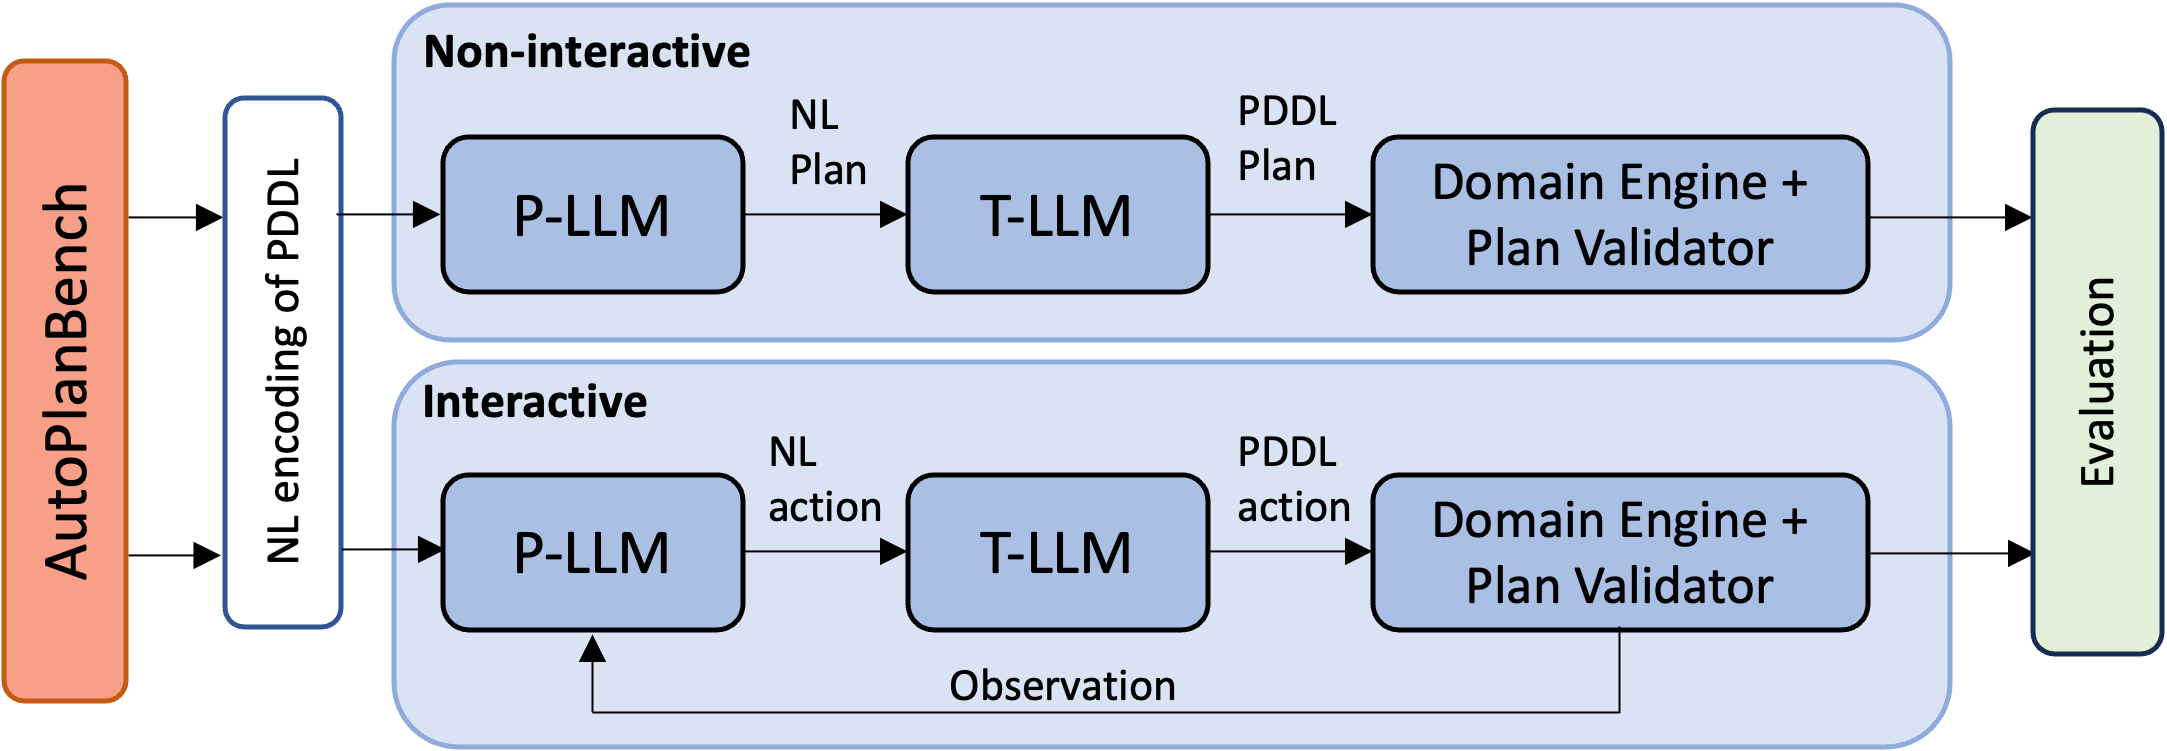
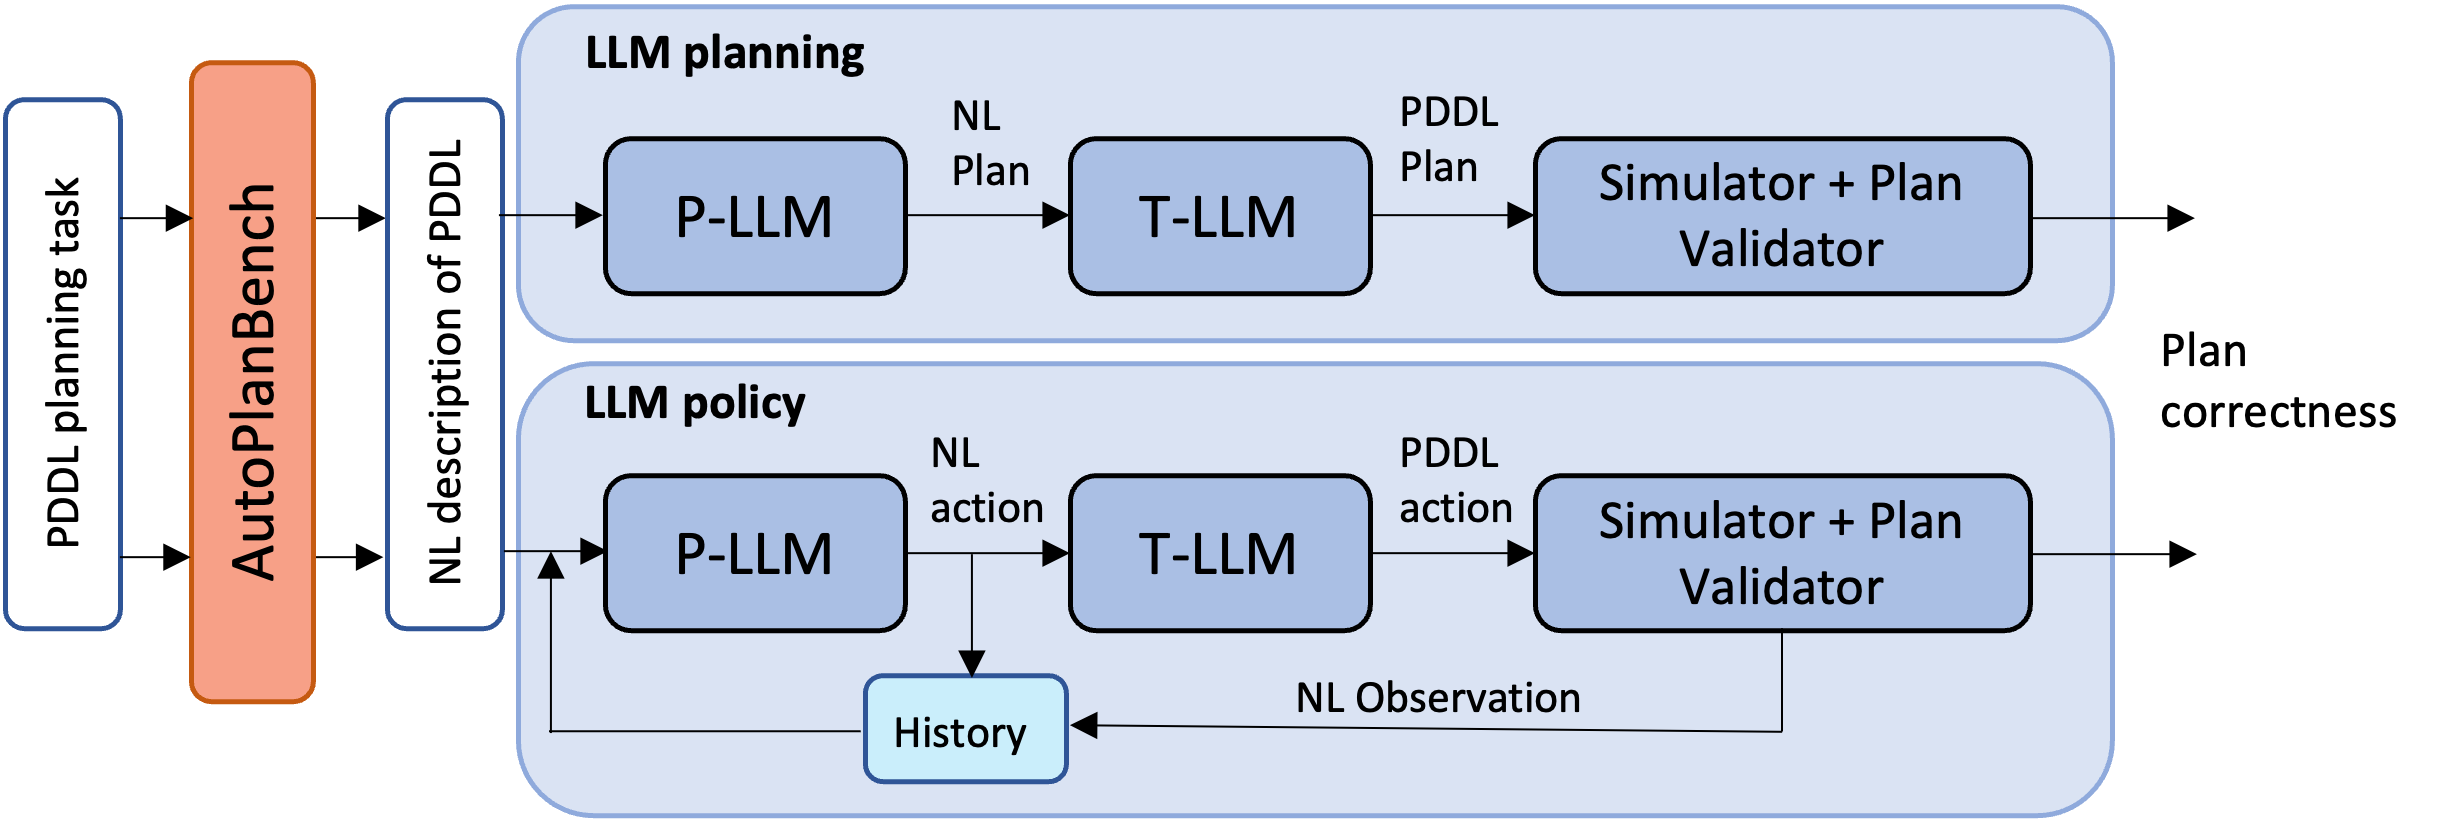
updates

diff --git a/autoplanbench.md b/autoplanbench.md
@@ -29,19 +29,16 @@ bibtex: |
           archivePrefix={arXiv},
           primaryClass={cs.AI}
     }
-    @misc{stein2024autoplanbench,
-          title={AutoPlanBench: Automatically generating benchmarks for LLM planners from PDDL}, 
-          author={Katharina Stein and Daniel Fi\v{s}er and J\"org Hoffmann and Alexander Koller},
-          year={2024},
-          eprint={2311.09830v2},
-          archivePrefix={arXiv},
-          primaryClass={cs.AI}
-    }
 ---
 
 <center>
     <img src="static/images/autoplanbench/autoplanbench2.png" width="50%" />
 </center>
+
+
+**Note on different versions**: <br>
+the previous version of this paper had been published on Arxiv under the title "AutoPlanBench: Automatically generating benchmarks for LLM planners from PDDL" which is currently linked above. This version of the paper will be soon replaced by the updated version "Automating the Generation of Prompts for LLM-based Action Choice in PDDL Planning" that will be published as part of the ICAPS Workshop on Bridging the Gap Between AI Planning and Reinforcement Learning (PRL). <br>
+The repository are already updated and the website is currently being updated. 
 
 
 
@@ -91,22 +88,22 @@ Blocksworld Example
 
 </details>
 
-## LLM Planning Approaches
+## LLM Action-Choice Mechanisms
 
 ### Overall Set-up
 
 <img src="static/images/autoplanbench/setup.png" width="50%" />
 
-* **P-LLM**: does the planning, i.e. predicts a complete plan / the next action given the domain and problem descriptions
+* **P-LLM**: does the action selection, i.e. predicts a complete plan / the next action given the domain and problem descriptions
 * **L-LLM**: translates natural language output of the P-LLM back to PDDL
-* **Domain Engine**: simulates the world state; outputs an observation for an input action; checks plan validity
+* **Simulator**: simulates the world state; outputs an observation for an input action; checks plan validity; determines whether the goal is satisfied
 
 ### Tested Approaches
 
-|                 | Non-interactive                                                                                   | Interactive                                                                                                                                  |
+|                 | Plan Generation (Non-interactive)                                                                                   | LLM as a policy (Interactive)                                                                                                                                  |
 |-----------------|---------------------------------------------------------------------------------------------------|----------------------------------------------------------------------------------------------------------------------------------------------|
-| **No Thoughts** | *Basic* <br> * one complete plan                                                                  | *Act* <br> * step by step prediction of next action <br> * observation from domain engine                                                    |
-| **Thoughts**    | *CoT* <br> * Chain-of-Thought (Wei et al. 2022) <br> * on complete plan <br> * reasoning thoughts | *ReAct* <br> * Yao et al. 2023 <br> * step by step prediction of next action <br> * observation from domain engine <br> * reasoning thoughts |
+| **No Thoughts** | *Basic* <br> * one complete plan                                                                  | *Act* <br> * step by step prediction of next action <br> * observation from the simulator                                                    |
+| **Thoughts**    | *CoT* <br> * Chain-of-Thought (Wei et al. 2022) <br> * on complete plan <br> * reasoning thoughts | *ReAct* <br> * Yao et al. 2023 <br> * step by step prediction of next action <br> * observation from the simulator <br> * reasoning thoughts |
 
 <details>
   <summary>Full ReAct Example</summary>
@@ -131,8 +128,9 @@ Blocksworld Example
 ## LLM Planning Results 
 
 **Metrics**<br>
-* Accuracy (Acc): A plan is considered as correct if the goal state is reached with the last predicted step. The Acc<sup>0</sup> metric measures the number of plans that would be correct under the stricter constraint that the generated plan is correct and directly executable, i.e. no non-executable actions are predicted in the interactive approaches.
-* Optimal Plan Length Factor (LF): Average length factor of the correct predicted plans compared to the optimal plans (only counting executable actions).
+* Coverage: The absolute number of correctly solved instances
+    * Plan generation: an instance is considered to be solved correctly in case the goal is satisfied after executing all predicted actions from the generated plan
+    * Policy: an instance is considered to be solved correctly in case the goal is satisfied within the specified number of steps; the simulator itself takes care of stopping the generation of further actions in that case
 
 <img src="static/images/autoplanbench/table_results_new.png" width="80%" />
 
@@ -144,7 +142,6 @@ We find that the automatically converted planning domains (APB) yield comparable
 **Results: LLM Planning Performance**<br>
 Overall, we find that the planning performance differs considerably between the 12 tested domains. While the best LLM planners (ReAct) do well on some planning tasks, many remain out of reach of current search-based planning methods (see Table 2).
 
-<img src="static/images/autoplanbench/results_length.png" width="45%" />
 
 One potential factor influencing the different results across domains is the plan length. Overall, the LLM planners performed better on domains with shorter problems. This could indicate that LLMs are worse at long-term planning or at generalization from shorter demonstrations to larger test problems. 
 
